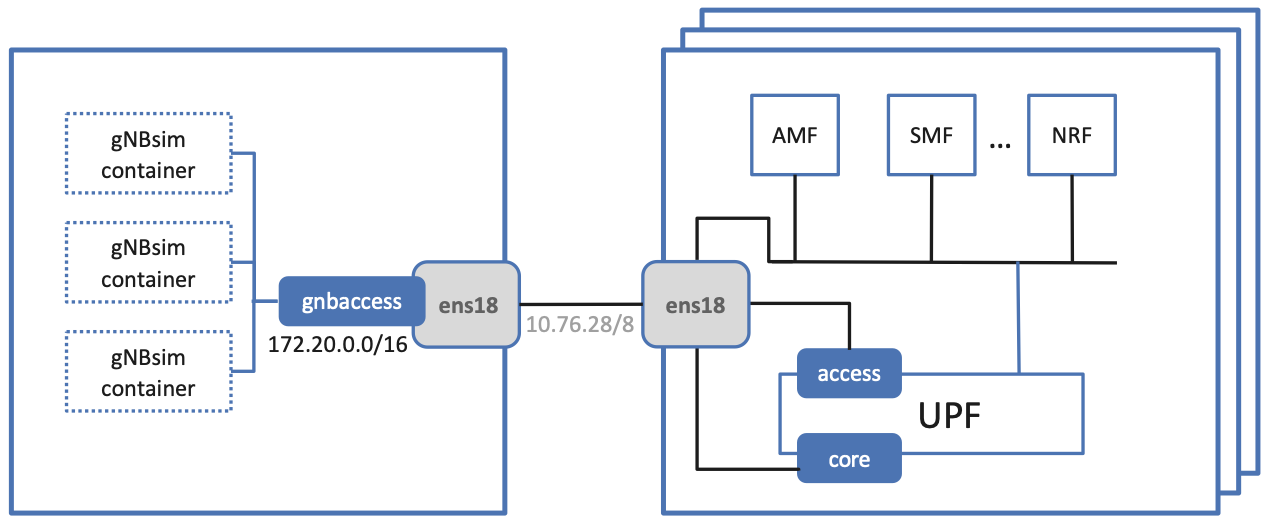
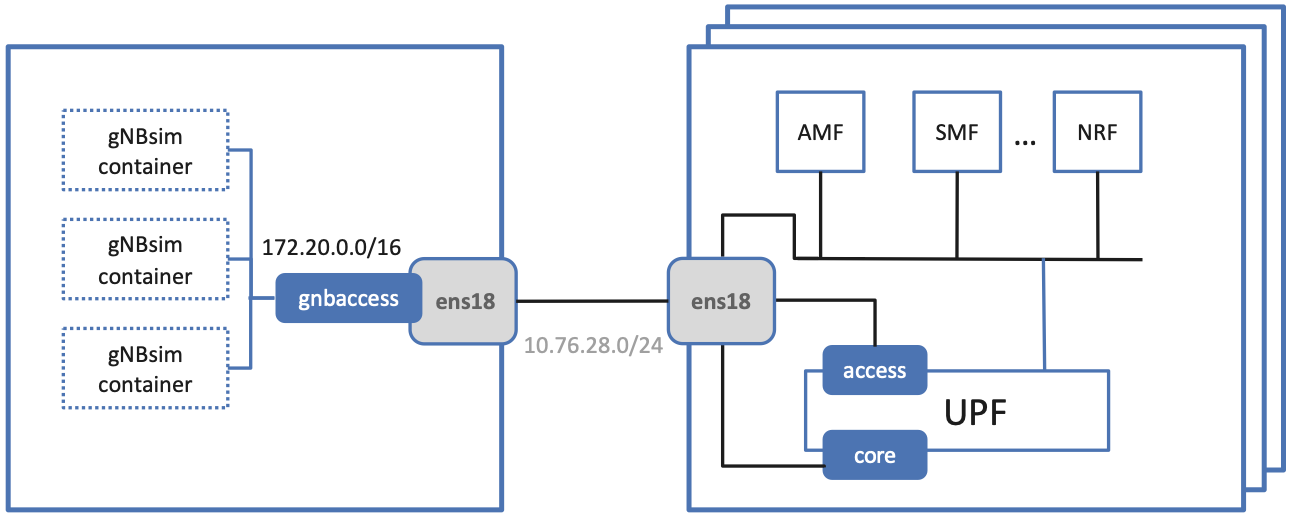
fixed mistakes

Changed region(s): [[0.0, 0.0, 1.0, 1.0]]

diff --git a/software/start.rst b/software/start.rst
@@ -142,7 +142,8 @@ currently reading
    data_iface: ens18
 
 need to be edited to replace ``ens18`` with the device interface for
-you server. You can learn the interface by typing
+you server. You can learn the interface using the Linux ``ip``
+command:
 
 .. code-block::
 
@@ -161,8 +162,9 @@ you server. You can learn the interface by typing
           valid_lft forever preferred_lft forever
 
 In this example, the reported interface is ``ens18`` and the IP
-address is ``10.76.28.113``. We will use these two values as a part of
-a running example throughout the Appendix.
+address is ``10.76.28.113`` on subnet ``10.76.28.0/24``.  We will use
+these three values as a running example throughout the Appendix, as a
+placeholder for your local details.
 
 Install Ansible
 ~~~~~~~~~~~~~~~~~~

diff --git a/software/network.rst b/software/network.rst
@@ -169,7 +169,7 @@ AMF container.
 
 Second, the basic end-to-end schematic shown in :numref:`Figure %s
 <fig-macvlan>` assumes each gNB is assigned an address on the same L2
-network as the Aether cluster (e.g., ``10.76.28/8`` in our example
+network as the Aether cluster (e.g., ``10.76.28.0/24`` in our example
 scenario). This works when the gNB is physical or when we want to run
 a single gNBsim traffic source, but once we scale up the gNBsim by
 co-locating multiple containers on a single server, we need to
